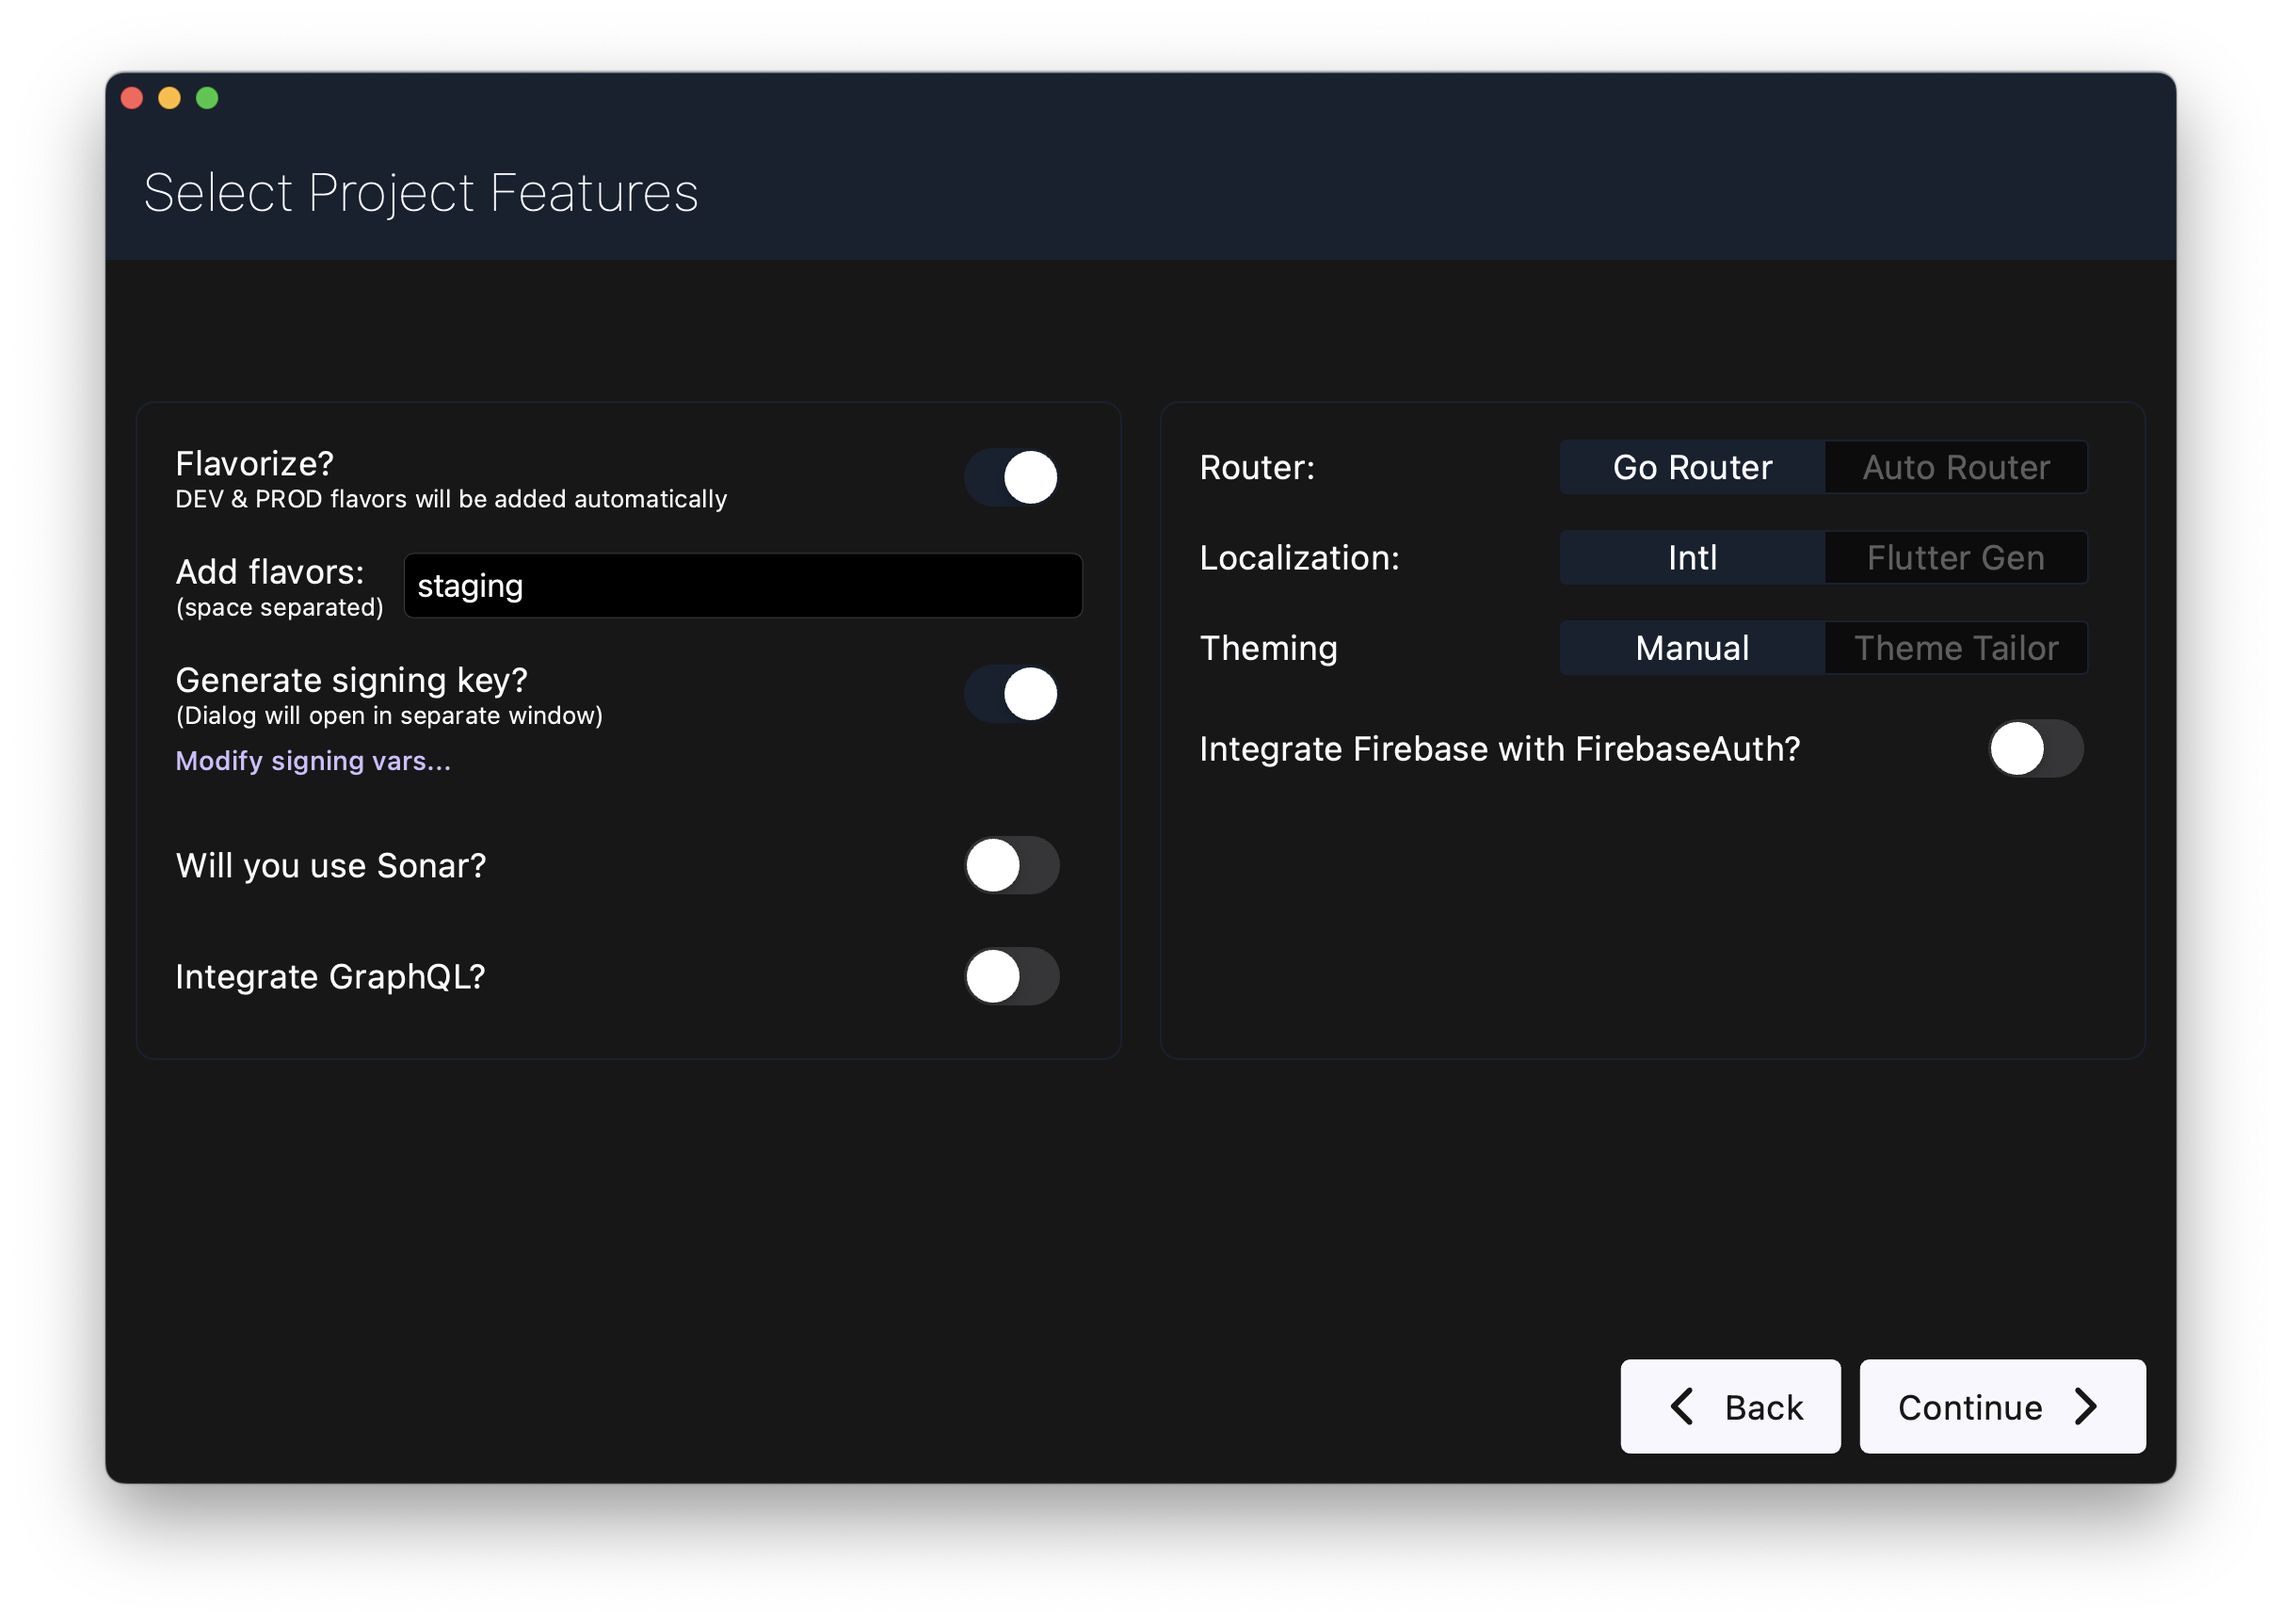
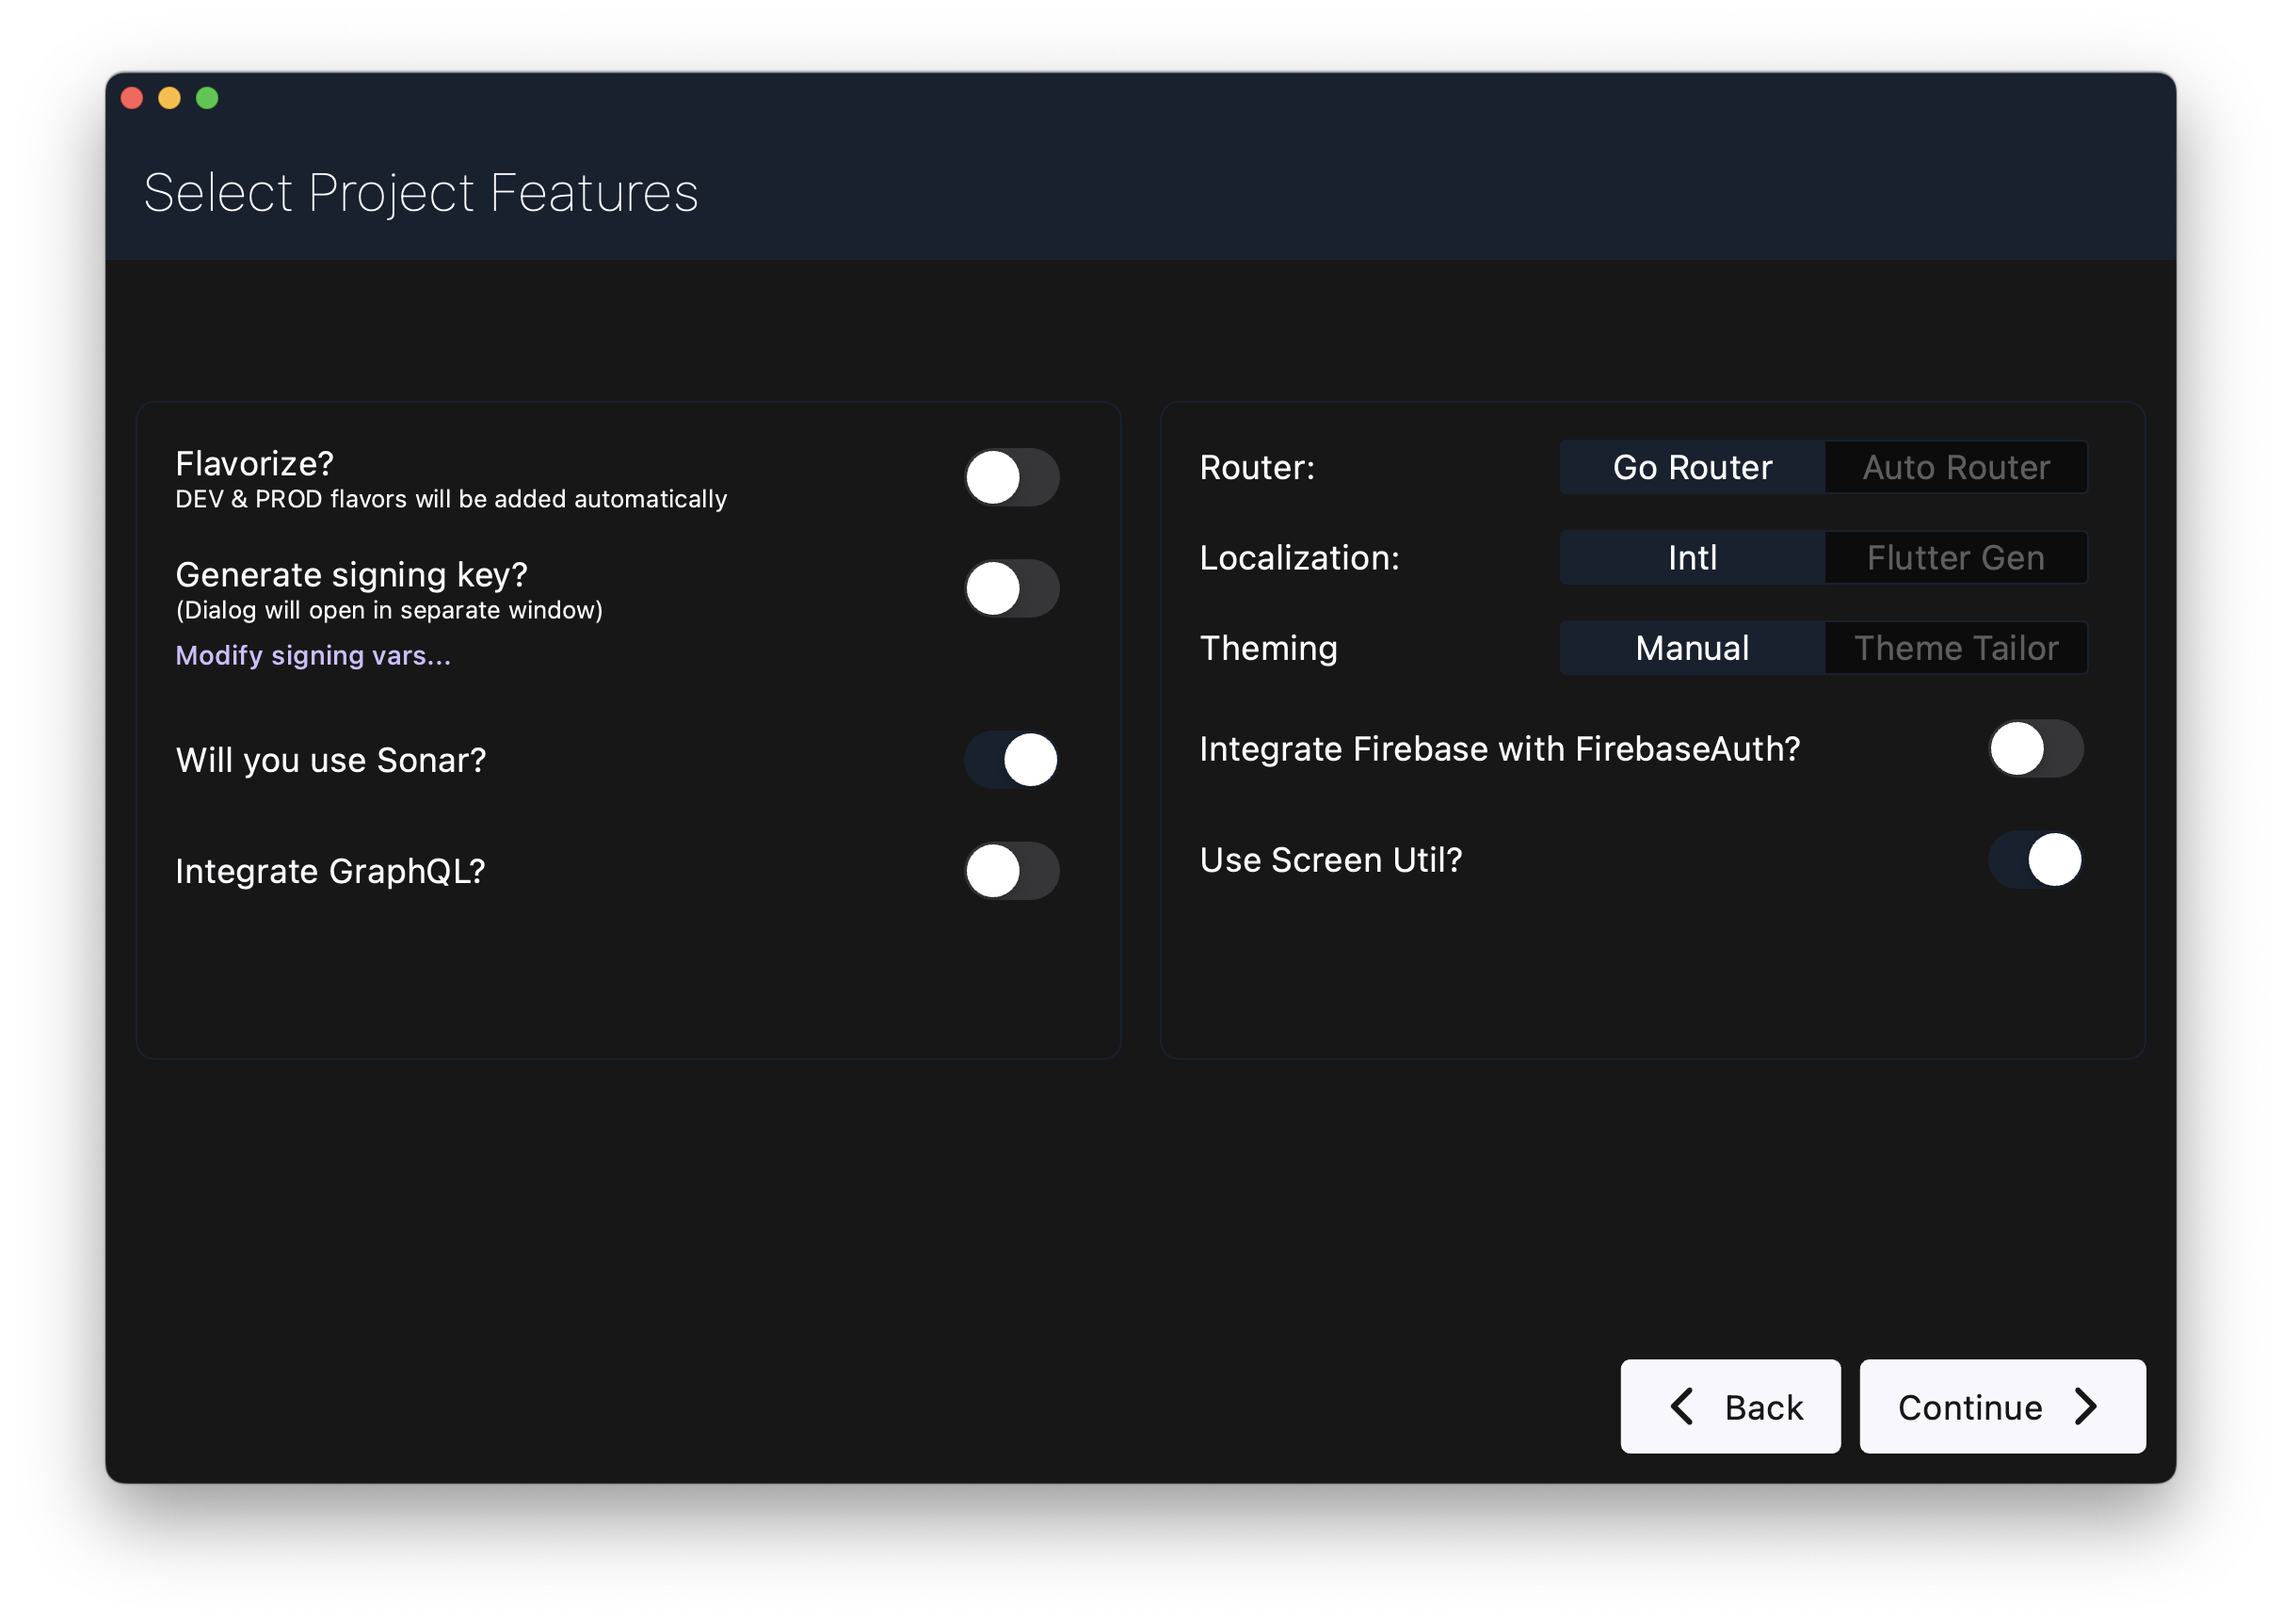
feat(documentation): how to docs update

diff --git a/docs/HOW_TO.md b/docs/HOW_TO.md
@@ -18,18 +18,46 @@
 * **[Architecture overview](how_to/ARCH_OVERVIEW.md)**
 * **[How BLoC state management works in generated project](how_to/BLOC_HOW_TO.md)**
 * **[How networking component works in generated project](how_to/NETWORKING_HOW_TO.md)**
-* **[Where flavor main files are located?](#flvmainf)**
+* **[Where flavor main files are located in?](#flvmainf)**
+* **[Where API client base components are located in?](#apicomp)**
+* **[How I can add new failure types?](#fails)**
 
 <br/>
 <br/>
 
-### <a name="flvmainf"></a>Where flavor main files are located?
+### <a name="flvmainf"></a>Where flavor main files are located in?
 
 Main files are located in: 
 
 ```
 lib/app/flavors
 ```
+
+### <a name="apicomp"></a>Where API client base components are located in?
+
+Base API client components are located in:
+
+```
+lib/core/arch/data/remote
+```
+
+Here you can find all the base classes which that are included in the API client module.
+
+Base API url and API client name are located in:
+
+```
+lib/core/arch/data/remote/clients/dio/dio_const.dart
+```
+
+You free to add as much URls you need and declare a new API clients to use with different urls.
+
+Also here a few examples of request interceptors in `/interceptor` folder. You can use any you like or your own
+implementation but not forgot to declare chosen interceptor in the `ApiClient`.
+
+### <a name="fails"></a>How I can add new failure types?
+
+Just go to `lib/core/arch/domain/entity/failure` folder and create any much new custom failures you need. 
+But be aware that you new failure classes must implement base `Failure` class.
 
 
 <br/>

diff --git a/docs/how_to/HOW_TO_CREATE_PROJECT.md b/docs/how_to/HOW_TO_CREATE_PROJECT.md
@@ -122,6 +122,10 @@ Select preferred type of localization to be included in the application.
 
 Select preferred configuration of ThemeExtension: Manual or based on generated classes by ThemeTailor.
 
+### ScreenUtil
+
+Enable if need to include support of ScreenUtil package.
+
 ### Firebase
 
 Enable if you need to include Firebase dependencies and Firebase Auth client into the application. 
@@ -147,7 +151,7 @@ After you press `Add screen` button you will see dialog:
 * **Select BLoC or Cubit** if you need state management on this screen. 
 * Press OK.
 
-**And once sreens added press on Continue button**.
+**And once screens added press on Continue button**.
 
 <div align="center">
 <img alt="refine logo" src="images/4_screens.png">
